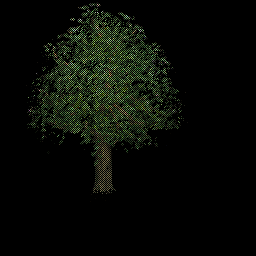
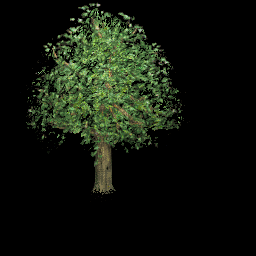
Cambio el arbol xq tenia flickering

Changed region(s): [[0.0938, 0.0, 0.7188, 0.75]]

diff --git a/main.cpp b/main.cpp
@@ -34,7 +34,7 @@ void init()
 	else
 	{
 		//Set texture filtering to linear
-		if( !SDL_SetHint( SDL_HINT_RENDER_SCALE_QUALITY, "0" ) )
+		if( !SDL_SetHint( SDL_HINT_RENDER_SCALE_QUALITY, "MipmapLinearNearest" ) )
 		{
 			printf( "Warning: Linear texture filtering not enabled!" );
 		}
